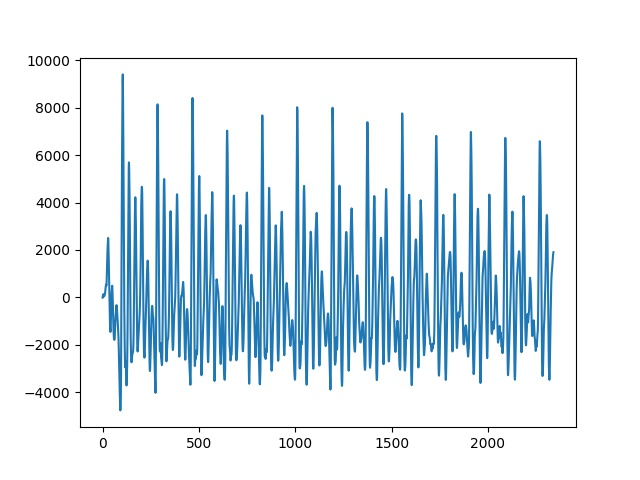
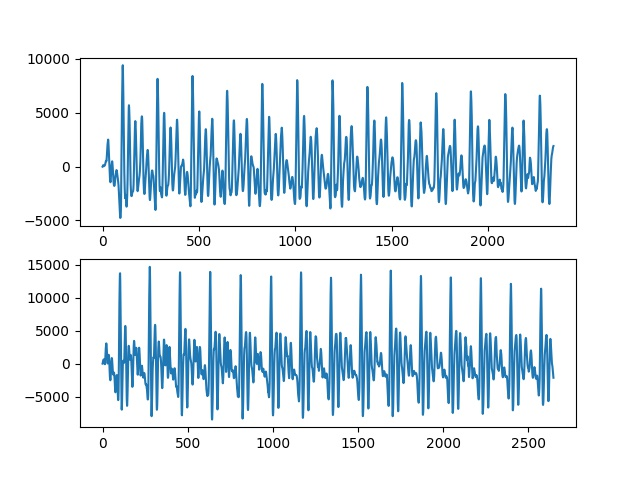
-

diff --git a/sk/2024/11/ses-tanima-isleme.md b/sk/2024/11/ses-tanima-isleme.md
@@ -1,19 +1,25 @@
-# Ses Tanima, Isleme
+# Ses Tanıma, İşleme
 
 Veri Okuma, Yazma
 
-Okuma islemi `scipy.io.wavfile` ile yapilabilir, tek boyutlu bir vektor
-elde edilecektir. Bir ornek gorelim,
+Okuma işlemi `scipy.io.wavfile` ile yapılabilir, tek boyutlu bir vektör
+elde edilecektir. Bir örnek görelim,
 
 ```python
 import scipy.io.wavfile
 tmp, wav1 = scipy.io.wavfile.read('phonemes/ow.wav')
-plt.plot(wav1)
+tmp, wav2 = scipy.io.wavfile.read('phonemes/ao.wav')
+fig, axs = plt.subplots(2)
+axs[0].plot(wav1)
+axs[1].plot(wav2)
 plt.savefig('ses_01.jpg')
 ```
 
-Bu ses dosyasini komut satirinda calmak icin `aplay` ya da `ffmpeg`
-kullanilabilir. 
+Ses verisi sonuçta bir zaman serisidir. Şekil olarak iki sesin (fonem)
+birbirinden farkı görülebiliyor.
+
+Bu ses dosyalarını komut satirinda calmak icin `aplay` ya da `ffmpeg`
+kullanilabilir.
 
 Eger elde tek boyutlu bir ses verisi varsa diske yazmak icin `scipy.io.wavfile.write`,
 
@@ -69,17 +75,18 @@ Altta bir polis sireni örneği,
 y = sin(2*pi*1500*t - 100*sin(2*2*pi*t))
 ```
 
-Ses Verisi Karsilastirmak
+Ses Verişi Karşılaştırmak
 
-Tek boyutlu vektör olduğu için ses verisi bir tür zaman serisidir. Bu
-zaman serisini bildik araçlarla karşılaştıramaz miyiz? Mesela basit
-korelasyon, ya da basit Öklitsel uzaklık ölçütleri ile mesel?
+Ses verisi bir tür zaman serisi olduğuna göre bu zaman serisini bildik
+araçlarla karşılaştıramaz mıyız? Mesela basit korelasyon, ya da basit
+Öklitsel uzaklık ölçütleri ile bir mesafe irdelemesi kullansak olmaz
+mi acaba?
 
-Eğer ses tanıma için kullanacaksak, basit karşılaştırma yöntemleri
-problem çıkartabilir. Gürültü konusunu bir kenara bıraksak, boyutsal,
-genlik (amplitude) uyusşmazlık problemleri olabilir. Yani aynı ses
-bazen daha yüksek genli, bazen faz olarak sağa, sola kaymış olabilir,
-ya da ses verisi daha çok zamana yayılmış olabilir.
+Eğer amac ses tanıma ise, basit karşılaştırma yöntemleri problem
+çıkartabilir. Gürültü konusunu bir kenara bıraksak, boyutsal, genlik
+(amplitude) uyuşmazlık problemleri olabilir. Yani aynı ses bazen daha
+yüksek genli, bazen faz olarak sağa, sola kaymış olabilir, ya da ses
+verisi daha çok zamana yayılmış olabilir.
 
 
 
@@ -150,7 +157,7 @@ plt.plot(wav11)
 plt.savefig('ses_04.png')
 ```
 
-Sinussel Regresyon ile Ayirmak
+Sinüssel Regresyon ile Ayırmak
 
 ```python
 import statsmodels.api as sm
@@ -195,17 +202,17 @@ R^2 0.5121417785266622
 
 Kaynaklar
 
-[1] https://github.com/talcs/simpledtw/
+[1] <a href="https://github.com/talcs/simpledtw">SimpleDTW</a>
 
-[2] https://github.com/slaypni/fastdtw
+[2] <a href="https://github.com/slaypni/fastdtw">FastDTW</a>
 
-[3] https://cs.fit.edu/~pkc/papers/tdm04.pdf
+[3] <a href="https://cs.fit.edu/~pkc/papers/tdm04.pdf">FastDTW Makale</a>
 
-[4] https://rtavenar.github.io/blog/dtw.html
+[4] Tavenard, <a href="https://rtavenar.github.io/blog/dtw.html">An introduction to Dynamic Time Warping</a>
+    
+[5] Mishra, <a href="https://medium.com/walmartglobaltech/time-series-similarity-using-dynamic-time-warping-explained-9d09119e48ec">Time Series Similarity Using Dynamic Time Warping -Explained</a>
 
-[5] https://medium.com/walmartglobaltech/time-series-similarity-using-dynamic-time-warping-explained-9d09119e48ec
-
-[6] Bayramli, Zaman Serileri, Finans, Sezonsallık, Periyotlar
+[6] Bayramlı, Finans ve Zaman Serileri - Sezonsallık, Periyotlar
 
 [7] <a href="https://www.dropbox.com/scl/fi/7bjyicydyyurizi314qp8/google_voice_small.zip?rlkey=l5ibbx480jld79exvkwih3szr&st=ni9ibhbs&dl=1">Ufak Ses Komut Verisi</a>
     
